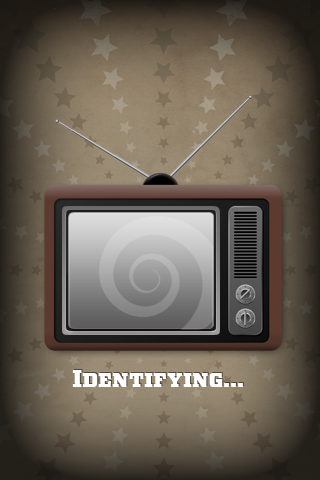
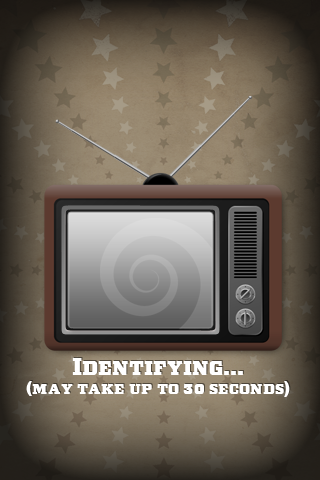
Updated design assets and moved error stuff out of RecorderView into its own AdHawkErrorView.

Changed region(s): [[0.0625, 0.4062, 0.9062, 0.8438]]

diff --git a/adhawk/Classes/RecorderViewController.m b/adhawk/Classes/RecorderViewController.m
@@ -8,6 +8,7 @@
 
 #import "RecorderViewController.h"
 #import "AdDetailViewController.h"
+#import "AdhawkErrorViewController.h"
 #import "InternalAdBrowserViewController.h"
 #import "Settings.h"
 #import "AdHawkAPI.h"
@@ -21,7 +22,7 @@ extern const char * GetPCMFromFile(char * filename);
 
 @implementation RecorderViewController
 
-@synthesize recordButton, popularResultsButton, workingBackground, failView, activityIndicator;
+@synthesize recordButton, workingBackground, failView;
 
 - (id)initWithNibName:(NSString *)nibNameOrNil bundle:(NSBundle *)nibBundleOrNil
 {
@@ -45,13 +46,16 @@ extern const char * GetPCMFromFile(char * filename);
 
 - (void)viewDidLoad {
     [super viewDidLoad];
+    failView = nil;
 //    [[AdHawkAPI sharedInstance] searchForAdWithFingerprint:TEST_FINGERPRINT delegate:self];
+//    [self setFailState:YES];
     _hawktivityAnimatedImageView = nil;
     [[NSNotificationCenter defaultCenter] addObserver: self
                                              selector: @selector(handleEnteredBackground:) 
                                                  name: UIApplicationDidEnterBackgroundNotification
                                                object: nil];
     [self setFailState:NO];
+    
     [self setWorkingState:NO];
     
     recordButton.enabled = YES;
@@ -130,7 +134,21 @@ extern const char * GetPCMFromFile(char * filename);
 
 -(void) setFailState:(BOOL)isFail
 {
-    failView.hidden = !isFail;
+    if (isFail && failView == nil) {
+        AdhawkErrorViewController *errorVC = [[UIStoryboard storyboardWithName:@"MainStoryboard" bundle:nil] instantiateViewControllerWithIdentifier:@"adhawkErrorVC"];
+        failView = errorVC.view;
+        [errorVC.popularResultsButton addTarget:self action:@selector(showBrowseWebView) forControlEvents:UIControlEventTouchUpInside];
+        [errorVC.tryAgainButton addTarget:self action:@selector(handleTVButtonTouch) forControlEvents:UIControlEventTouchUpInside];
+    }
+    if (isFail) {
+        [self.view addSubview:failView];
+    }
+    else {
+        if ([failView isDescendantOfView:self.view]) {
+            [failView removeFromSuperview];
+        }
+        failView = nil;
+    }
 }
 
 - (void)setWorkingState:(BOOL)isWorking
@@ -183,7 +201,6 @@ extern const char * GetPCMFromFile(char * filename);
                                        userInfo:nil
                                         repeats:NO];
         [audioRecorder record];
-        [activityIndicator startAnimating];
     }
 }
 
@@ -223,7 +240,6 @@ extern const char * GetPCMFromFile(char * filename);
 //        [[AdHawkAPI sharedInstance] searchForAdWithFingerprint:TEST_FINGERPRINT delegate:self];
         [[AdHawkAPI sharedInstance] searchForAdWithFingerprint:fpCodeString delegate:self];
         
-        [activityIndicator stopAnimating];
 
     } else if (audioPlayer.playing) {
         [audioPlayer stop];

diff --git a/adhawk/Classes/AdhawkErrorViewController.m b/adhawk/Classes/AdhawkErrorViewController.m
@@ -1,0 +1,41 @@
+//
+//  AdhawkErrorViewController.m
+//  adhawk
+//
+//  Created by Daniel Cloud on 7/31/12.
+//  Copyright (c) 2012 Sunlight Foundation. All rights reserved.
+//
+
+#import "AdhawkErrorViewController.h"
+
+@implementation AdhawkErrorViewController
+
+@synthesize popularResultsButton, tryAgainButton;
+
+- (id)initWithNibName:(NSString *)nibNameOrNil bundle:(NSBundle *)nibBundleOrNil
+{
+    self = [super initWithNibName:nibNameOrNil bundle:nibBundleOrNil];
+    if (self) {
+        // Custom initialization
+    }
+    return self;
+}
+
+- (void)viewDidLoad
+{
+    [super viewDidLoad];
+	// Do any additional setup after loading the view.
+}
+
+- (void)viewDidUnload
+{
+    [super viewDidUnload];
+    // Release any retained subviews of the main view.
+}
+
+- (BOOL)shouldAutorotateToInterfaceOrientation:(UIInterfaceOrientation)interfaceOrientation
+{
+    return (interfaceOrientation == UIInterfaceOrientationPortrait);
+}
+
+@end

diff --git a/adhawk/Classes/RecorderViewController.h b/adhawk/Classes/RecorderViewController.h
@@ -28,14 +28,11 @@
     UIButton *popularResultsButton;
     UILabel *label;
     UIView *failView;
-    UIActivityIndicatorView *activityIndicator;
     CLLocationManager *_locationManager;
 }
 @property (nonatomic, strong) IBOutlet UIImageView *workingBackground;
 @property (nonatomic, strong) IBOutlet UIButton *recordButton;
-@property (nonatomic, strong) IBOutlet UIButton *popularResultsButton;
 @property (nonatomic, strong) IBOutlet UIView *failView;
-@property (nonatomic, strong) IBOutlet UIActivityIndicatorView *activityIndicator;
 -(IBAction) handleTVButtonTouch;
 -(IBAction) retryButtonClicked;
 -(IBAction) playAudio;

diff --git a/adhawk/Classes/AdhawkErrorViewController.h b/adhawk/Classes/AdhawkErrorViewController.h
@@ -1,0 +1,16 @@
+//
+//  AdhawkErrorViewController.h
+//  adhawk
+//
+//  Created by Daniel Cloud on 7/31/12.
+//  Copyright (c) 2012 Sunlight Foundation. All rights reserved.
+//
+
+#import <UIKit/UIKit.h>
+
+@interface AdhawkErrorViewController : UIViewController
+
+@property (nonatomic, strong) IBOutlet UIButton *popularResultsButton;
+@property (nonatomic, strong) IBOutlet UIButton *tryAgainButton;
+
+@end
